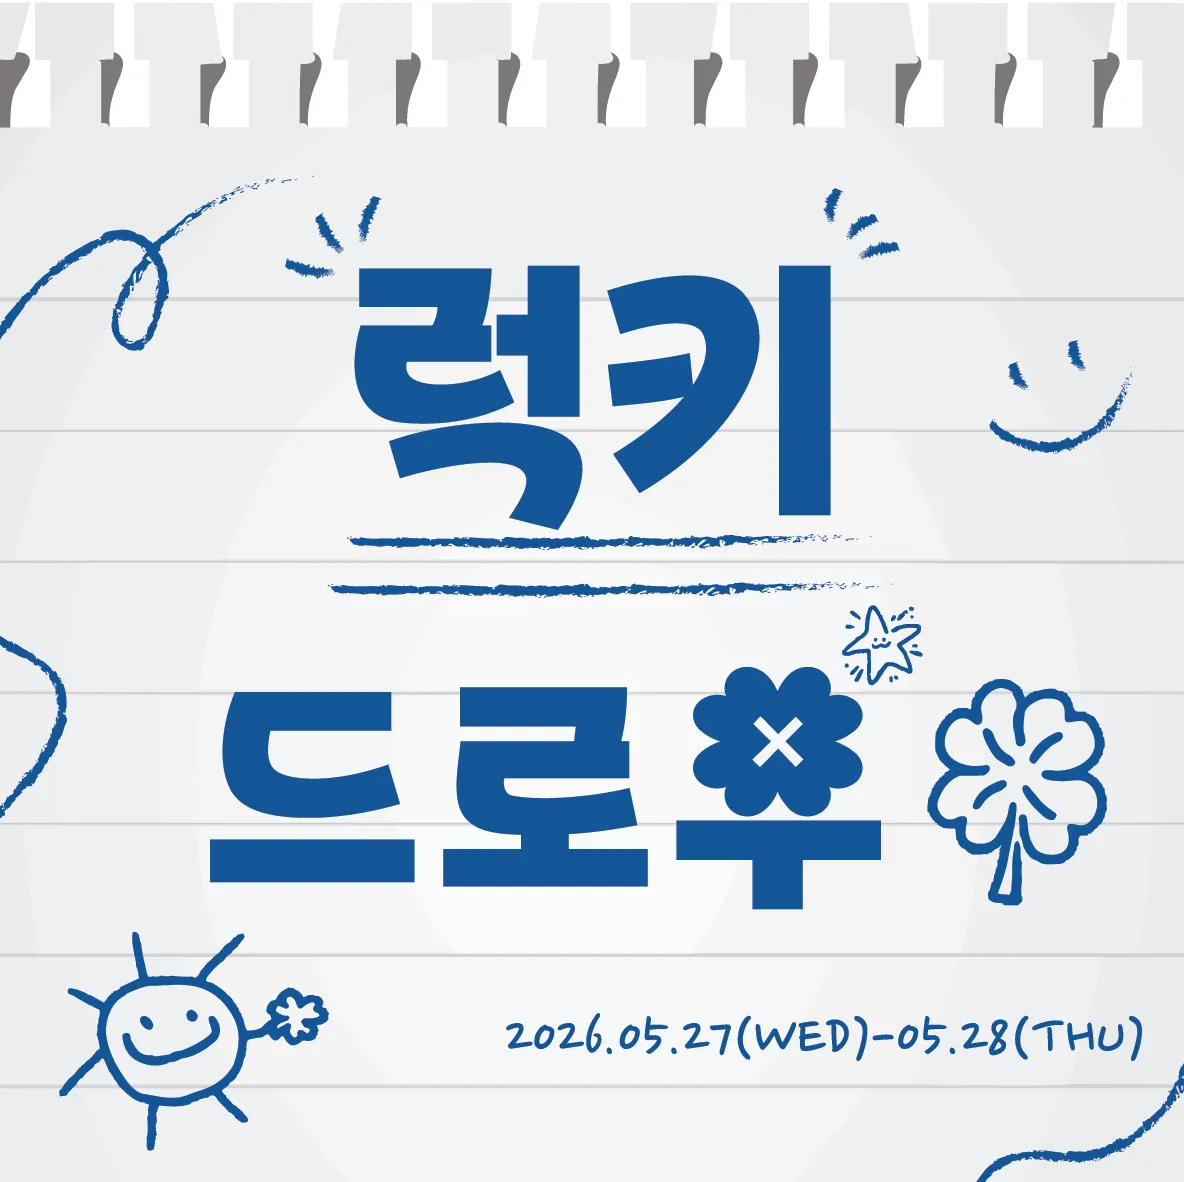
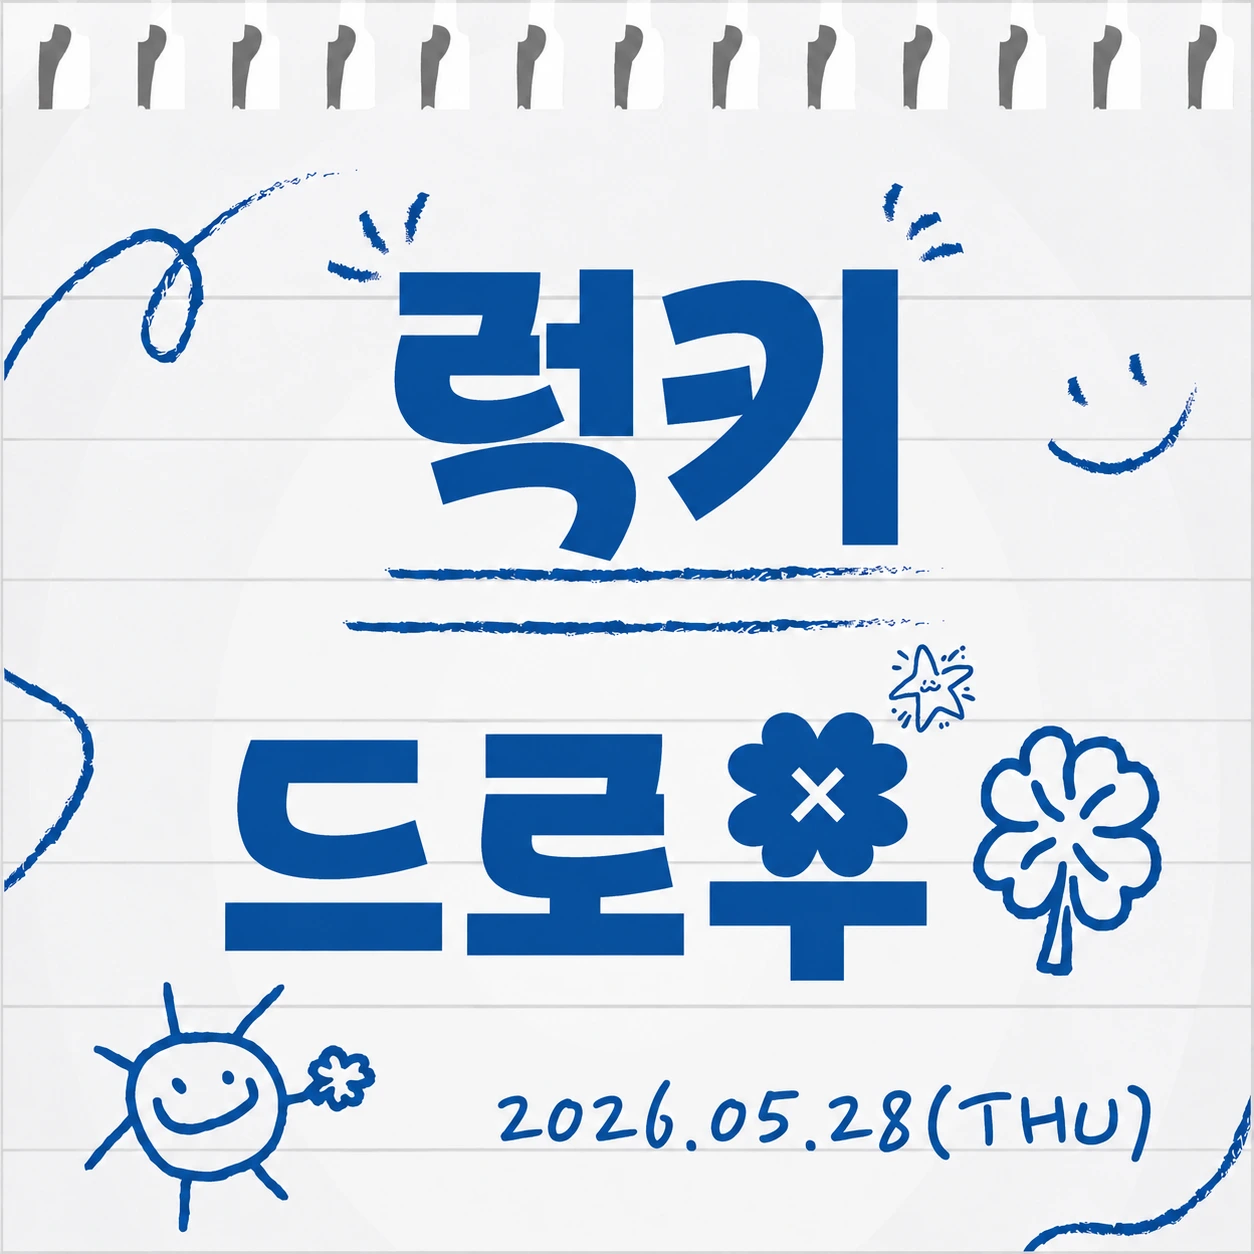
chore: 사진들 수정

diff --git a/src/app/(user)/event/_data/eventData.ts b/src/app/(user)/event/_data/eventData.ts
@@ -89,6 +89,14 @@ const EVENT_LIST_THUMBNAIL_BY_ID: Record<string, string> = {
   "14": "/Events/thumb_visitor.webp",
 };
 
+/** 이벤트 id → 상세 상단 배너 (public 경로, API 이미지보다 우선) */
+const EVENT_DETAIL_BANNER_BY_ID: Record<string, string> = {
+  "10": "/Events/banner_dress.webp",
+  "11": "/Events/banner_stamp.webp",
+  "12": "/Events/banner_polaroid.webp",
+  "13": "/Events/banner_lucky.webp",
+};
+
 export type EventItem = {
   id: string;
   title: string;
@@ -329,7 +337,7 @@ function mapEventApiItemToEventItem(api: EventApiItem): EventItem {
     timeRange,
     hideTimeRange: EVENT_HIDE_TIME_RANGE_IDS.has(id),
     location: api.location,
-    imageUrl: api.imageUrls?.[0],
+    imageUrl: EVENT_DETAIL_BANNER_BY_ID[id] ?? api.imageUrls?.[0],
     listThumbnailUrl: EVENT_LIST_THUMBNAIL_BY_ID[id],
     descriptionLines: toTextLines(api.description),
   };
